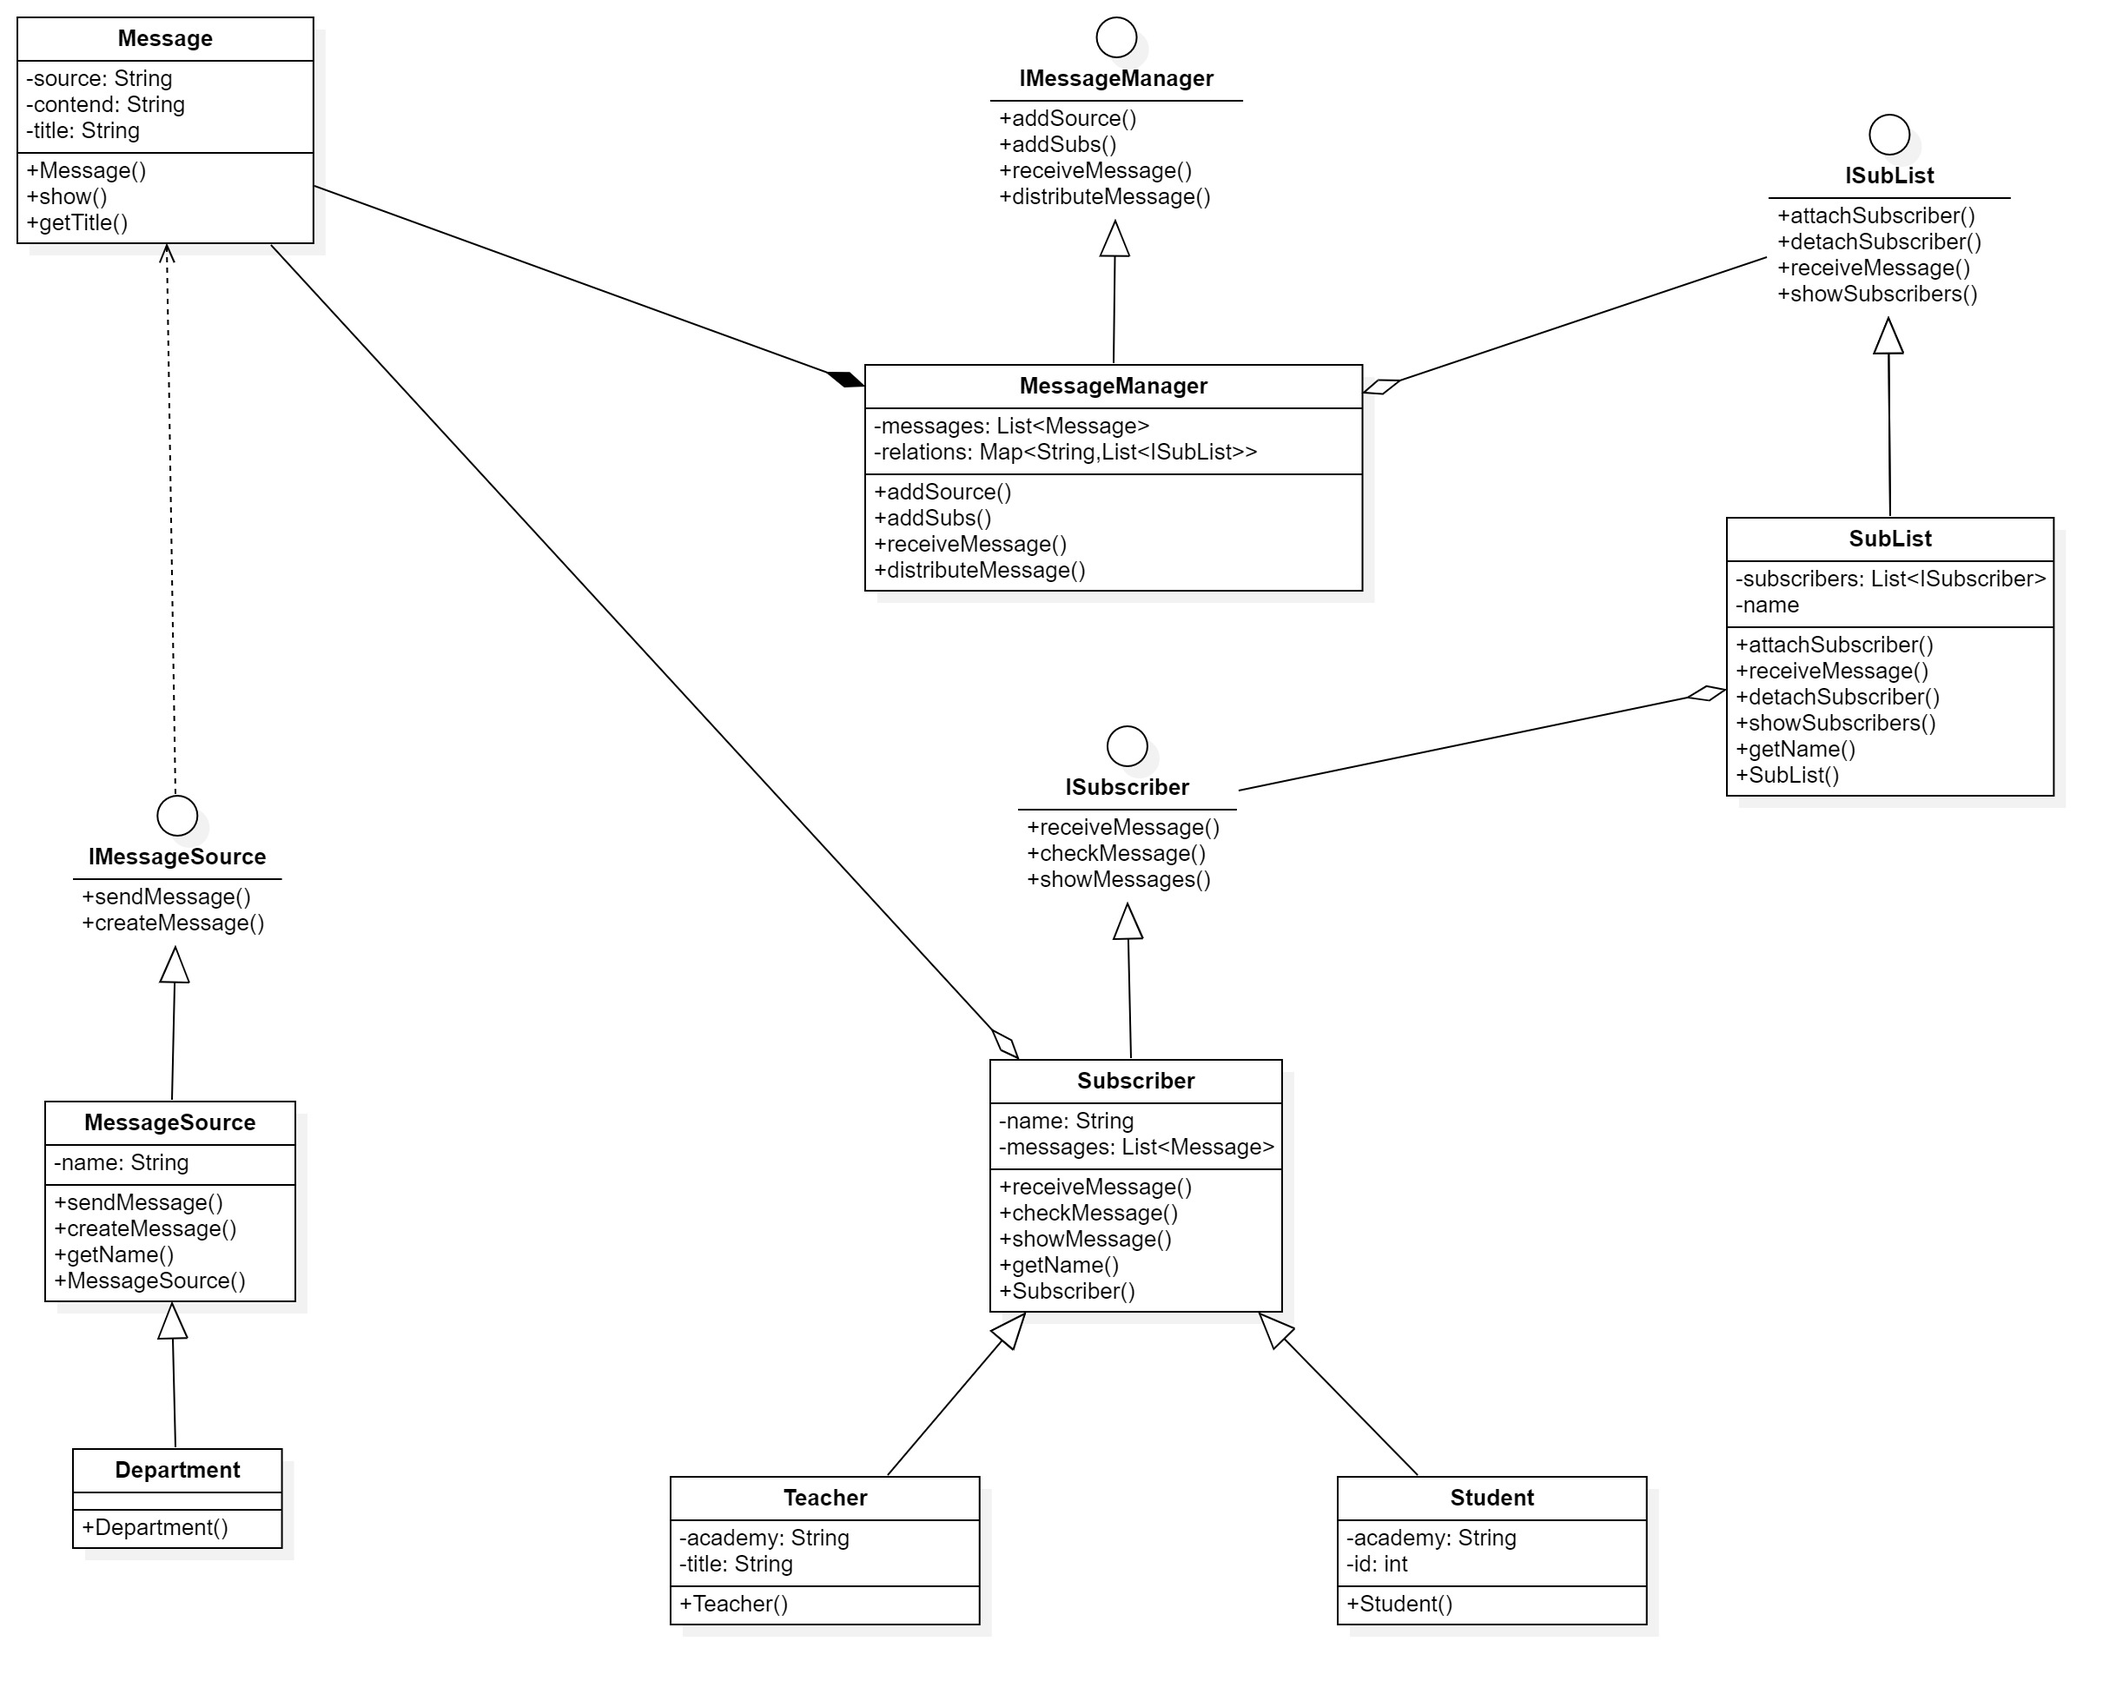
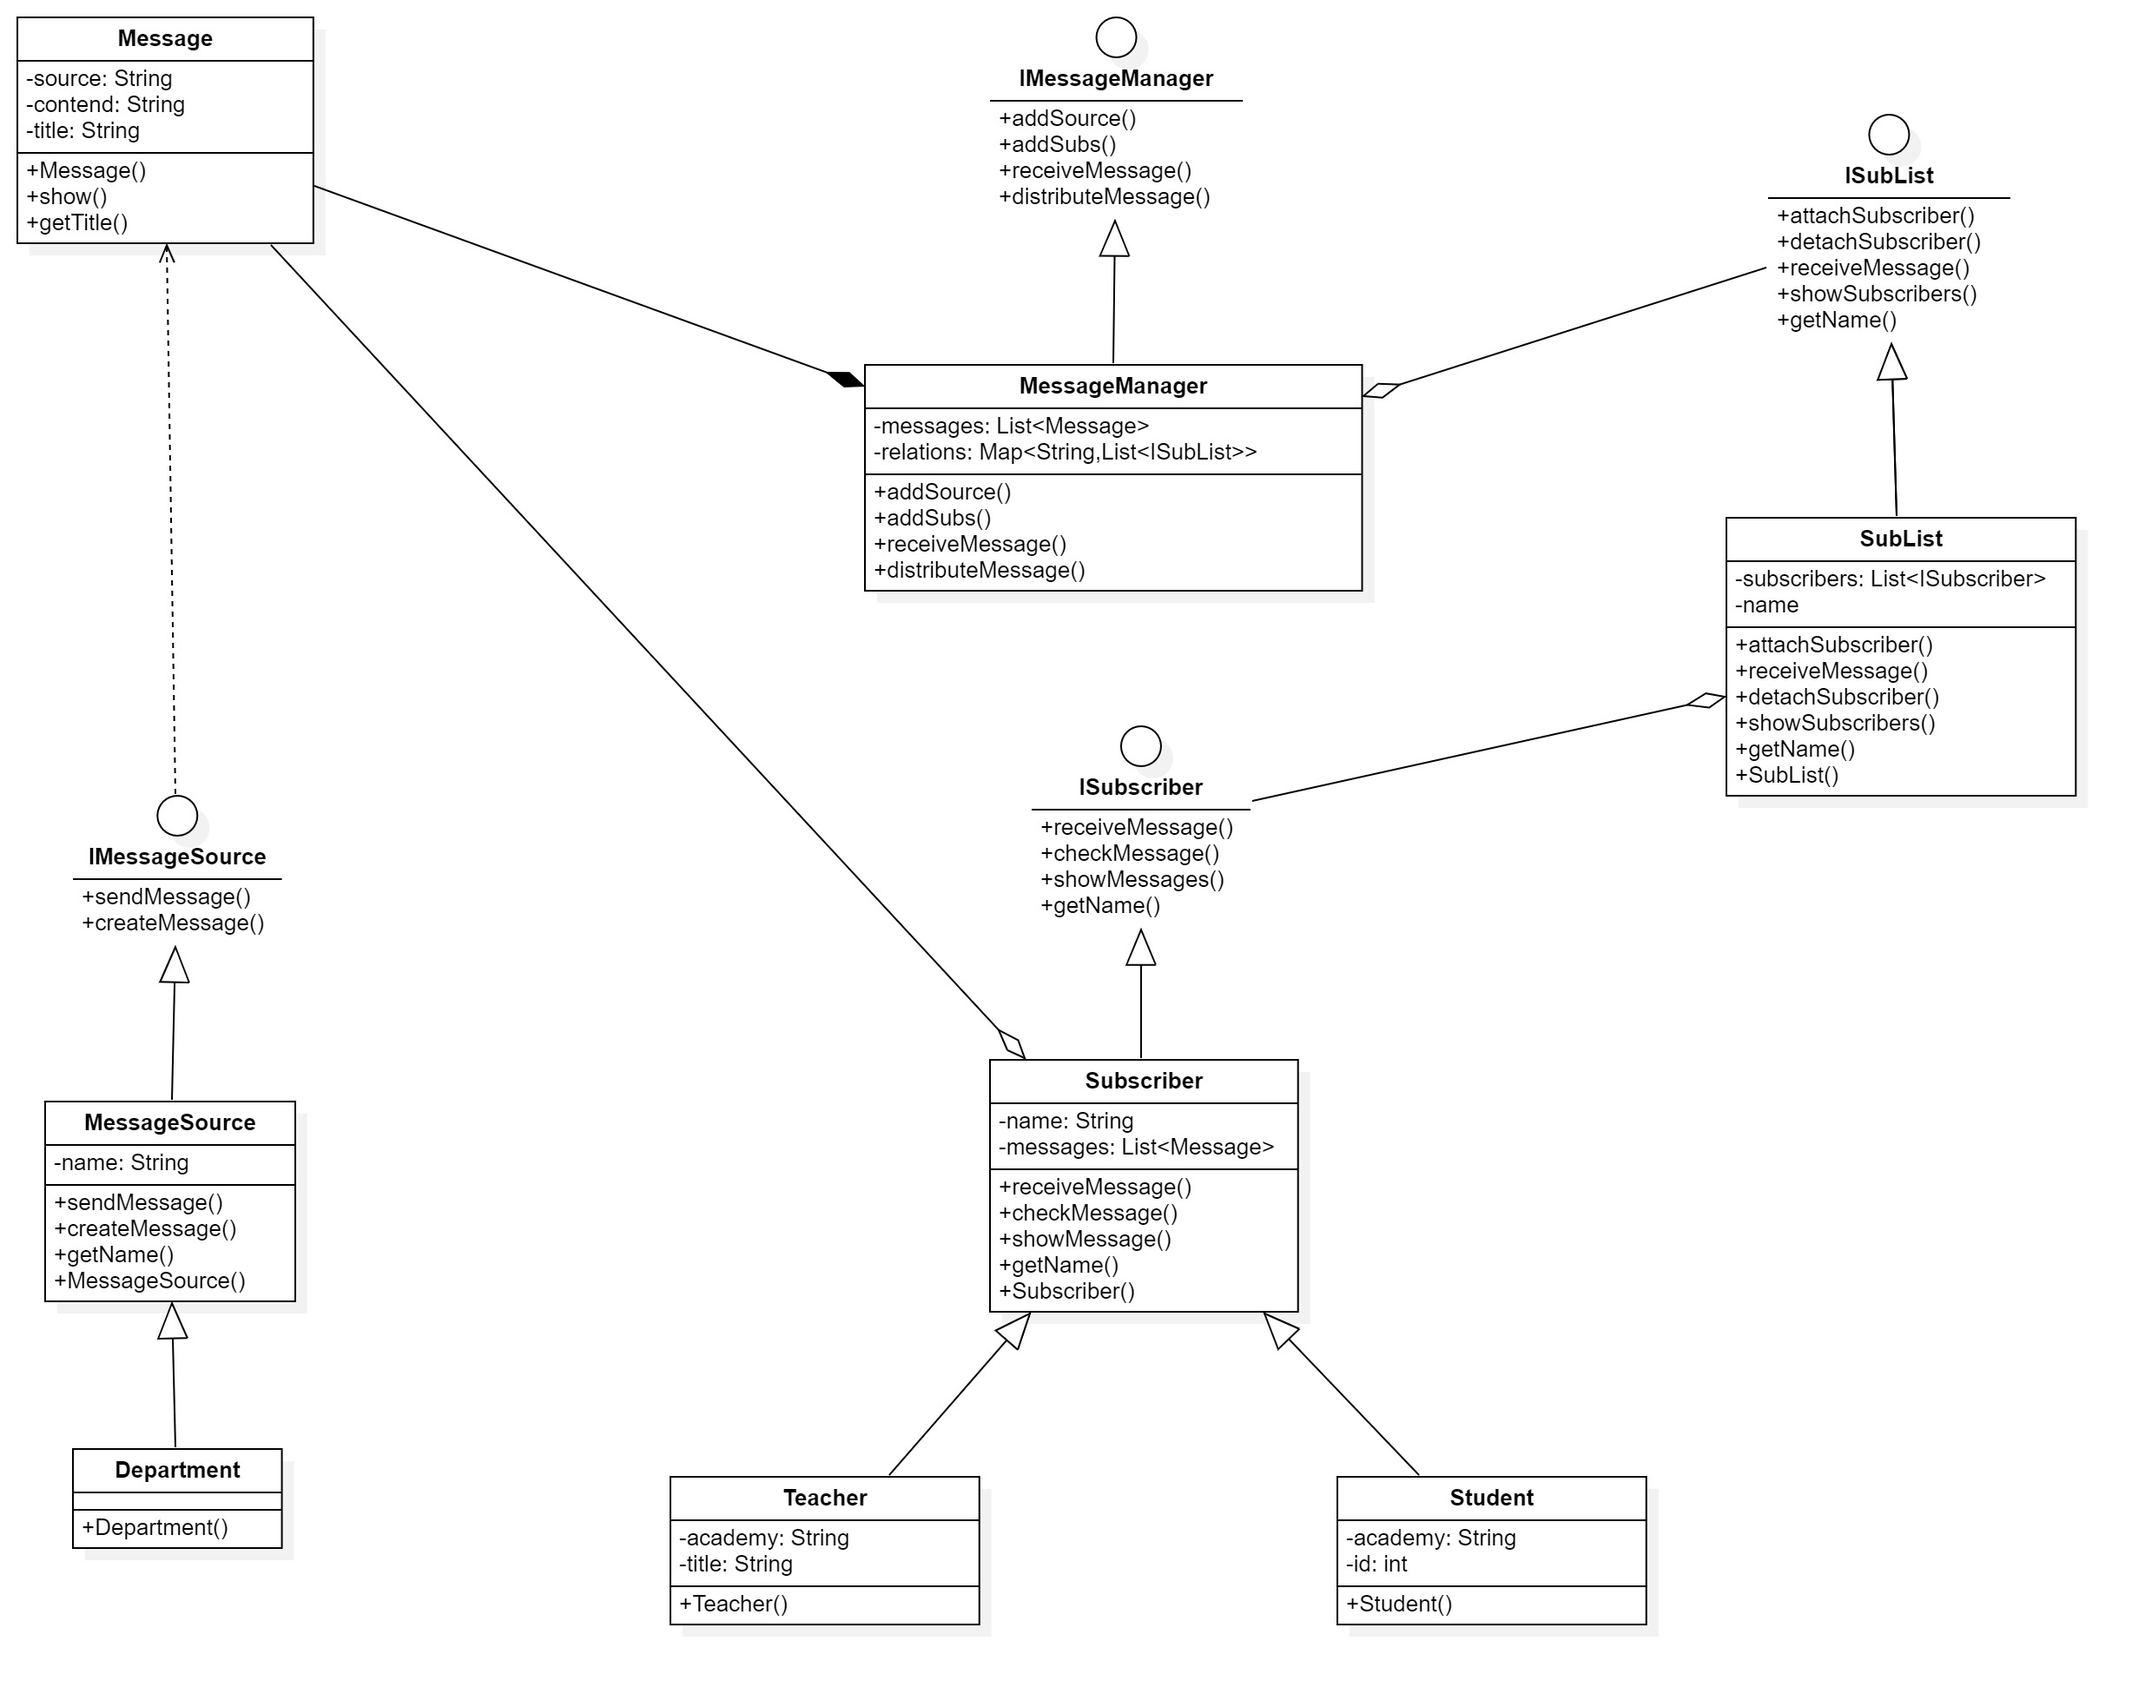
更正错误：接口中缺少方法声明

diff --git a/src/main/java/eventHandler/ISubList.java b/src/main/java/eventHandler/ISubList.java
@@ -32,4 +32,10 @@ public interface ISubList {
      * @param message 待接收的消息
      */
     public void receiveMessage(Message message);
+
+    /**
+     * 获取订阅者列表的名称
+     * @return 订阅者列表的名称
+     */
+    public String getName();
 }

diff --git a/src/main/java/pojo/ISubscriber.java b/src/main/java/pojo/ISubscriber.java
@@ -21,4 +21,10 @@ public interface ISubscriber {
      * 展示消息列表
      */
     public void showMessages();
+
+    /**
+     * 获取订阅者的名字
+     * @return 订阅者的名字
+     */
+    public String getName();
 }

diff --git a/src/main/java/eventHandler/SubList.java b/src/main/java/eventHandler/SubList.java
@@ -22,6 +22,7 @@ public class SubList implements ISubList {
      * 获取订阅者列表名称
      * @return 订阅者列表名称
      */
+    @Override
     public String getName() {
         return name;
     }

diff --git a/src/main/java/pojo/Subscriber.java b/src/main/java/pojo/Subscriber.java
@@ -19,6 +19,7 @@ public class Subscriber implements ISubscriber {
      * 获取订阅者名称
      * @return 订阅者名称
      */
+    @Override
     public String getName() {
         return name;
     }
